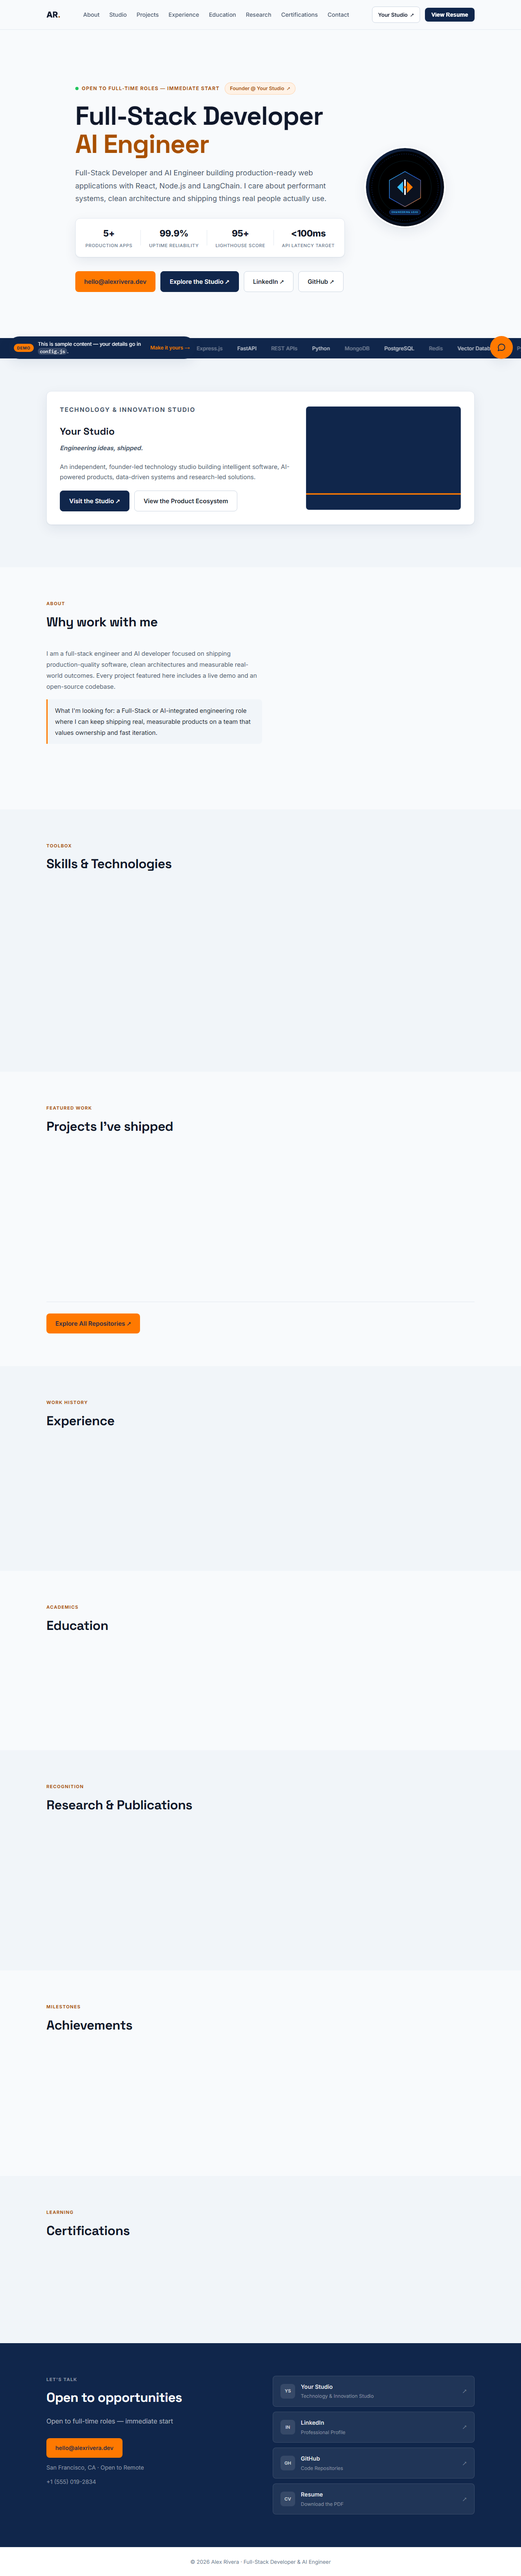
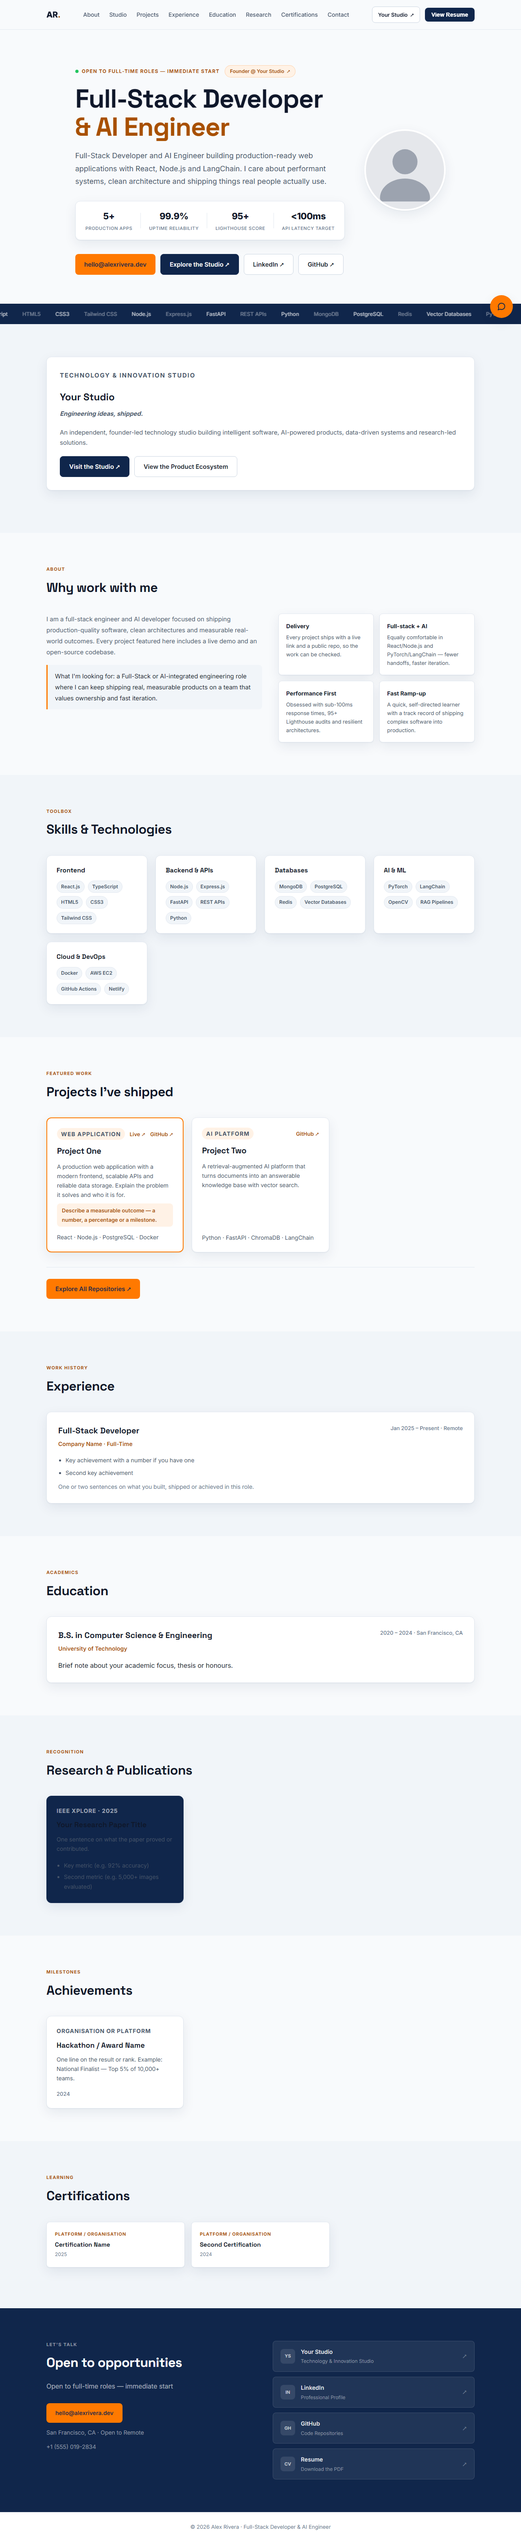
Rewrite the README around the download-and-deploy flow
Reorder the README to open with what the product is, a Diwali line, three real screenshots, a Try it link, what you get, how it works in three steps, privacy, deploy options, FAQ, contributing, licence and honest limits. Screenshots come from the running app. Tick 5.1.

diff --git a/README.md b/README.md
@@ -1,12 +1,12 @@
 <div align="center">
 
-<img src="assets/screenshot-portfolio.png" alt="The demo portfolio at desktop width" width="100%" />
+# ABMVSC Portfolio Engine
 
-<br/>
+**Free portfolio website generator. Fill in your details, download your site, go live. No code, no account.**
 
-# Portfolio Engine
+Released for Diwali 2026. Free to use, no account, nothing uploaded.
 
-**A free portfolio and company website generated in your browser from one config file — no build step, no account, no dependencies.**
+A product of ABMVSC Technology & Innovation Studio.
 
 [![License](https://img.shields.io/badge/License-MIT-10264B?style=for-the-badge)](LICENSE)
 [![No Build Step](https://img.shields.io/badge/Build%20Step-none-FF7900?style=for-the-badge)](.)
@@ -21,7 +21,25 @@
 
 ---
 
+## Screenshots
+
+The generator, filling in six chapters of questions:
+
+<img src="assets/screenshot-generator.png" alt="The generator, filling in the first chapter" width="100%" />
+
+The finished personal portfolio:
+
+<img src="assets/screenshot-portfolio.png" alt="A finished portfolio page" width="100%" />
+
+The finished studio or company page:
+
+<img src="assets/screenshot-studio.png" alt="A finished studio page" width="100%" />
+
+---
+
 ## Try it
+
+**[Open the generator](/setup.html)** — or run this copy yourself:
 
 ```bash
 git clone https://github.com/Balama2520/abmvsc-portfolio-template.git
@@ -29,7 +47,7 @@ cd abmvsc-portfolio-template
 npx serve .
 ```
 
-Open <http://localhost:3000/setup.html>. Answer what you can, skip the rest, then click **Download website (ZIP)**. Unzip the folder and put it online.
+Then open <http://localhost:3000/setup.html>. Answer what you can, skip the rest, and click **Download website (ZIP)**. Unzip the folder and put it online.
 
 The live preview inside the generator reads `index.html` and `studio.html`, so it needs a local server. The form, the download, the import and the copy button all work from a plain `file://` open too.
 
@@ -38,20 +56,18 @@ The live preview inside the generator reads `index.html` and `studio.html`, so i
 ## What you get
 
 - **Two pages from one file** — a personal portfolio (`index.html`) and an optional studio or company page (`studio.html`). Text, lists, images, links, colours, fonts and SEO tags all come from `config.js`.
-- **A generator that writes that file for you** (`setup.html`) — six chapters of questions, a live preview of both pages, a completeness meter and a local draft that never leaves your browser.
+- **A generator that writes that file for you** (`setup.html`) — six chapters of questions, a live preview of both pages, a readiness checklist and a local draft that never leaves your browser.
 - **A ZIP of the finished site** — pages, styles, script, your photo, your resume and the generated config. Every link inside it resolves within the folder, so an unzipped copy works offline.
-- **SEO written at runtime** — title, meta description, canonical URL, Open Graph, Twitter Card and JSON-LD structured data injected into `<head>` from your config.
+- **SEO written into the page** — title, meta description, canonical URL, Open Graph, Twitter Card and JSON-LD structured data are baked into the HTML at download time, then refreshed from your details.
 - **Three themes and one accent colour** — light, dark and minimal, applied as CSS custom properties. Pick a colour in the generator and the readable shades are derived for you.
 
 ---
 
 ## How it works in 3 steps
 
-**1. Answer the generator.** Open `setup.html` and work through the chapters — You, Your work, Extras, Your company, Look & feel, Launch. Every field is optional; leave a field blank and its element disappears from the site, leave an array empty and its whole section disappears.
+**1. Answer the generator.** Open `setup.html` and work through the chapters — You, Your work, Extras, Your company, Look & feel, Launch. Every field is optional; leave a field blank and its element disappears from the site, leave a list empty and its whole section disappears.
 
 **2. Download the ZIP.** The generator writes a `config.js` and packs it with the pages, styles, script, your uploaded photo and your uploaded resume.
-
-<img src="assets/screenshot-generator.png" alt="The config generator at desktop width" width="100%" />
 
 **3. Put the folder online.** Unzip it and upload the folder to any static host. Nothing to install, nothing to compile.
 
@@ -59,6 +75,14 @@ The live preview inside the generator reads `index.html` and `studio.html`, so i
 unzip your-site.zip
 # drag the unzipped folder onto app.netlify.com/drop
 ```
+
+---
+
+## Privacy and network requests
+
+Nothing is uploaded. There is no server, no account, no analytics and no third-party JavaScript. The generator runs entirely in your browser and saves your draft to your own `localStorage`; the ZIP is built in the page with a small ZIP writer that ships in the repository. Your photo and resume are read into the tab with `FileReader` and written straight into the ZIP.
+
+When you load a page from this project, the only requests are for files in the same folder: the page, the stylesheet, the scripts and the fonts. Fonts are served from this repository, not a font service. The test suite fails if any request leaves the origin. See [docs/PRIVACY.md](docs/PRIVACY.md) for the full note.
 
 ---
 
@@ -82,7 +106,7 @@ Netlify reads `netlify.toml`, Cloudflare Pages reads `_headers`; both are includ
 
 ### Where does my data go?
 
-Nowhere. There is no server, no account, no analytics and no third-party JavaScript. The generator runs entirely in your browser and saves your draft to your own `localStorage`; the ZIP is built in the page with a small ZIP writer bundled in the repository. Your photo and resume are read into the tab with `FileReader` and written into the ZIP. Nothing is uploaded.
+Nowhere. There is no server, no account, no analytics and no third-party JavaScript. Your draft stays in your browser's `localStorage` and the ZIP is built in the page. Nothing is uploaded. The full note is in [docs/PRIVACY.md](docs/PRIVACY.md).
 
 ### Can I use my own domain?
 
@@ -92,17 +116,13 @@ Yes. Point the domain at your host, then set `seo.siteUrl` in `config.js` to tha
 
 Edit `config.js` and re-upload that one file. If you deployed with Netlify Drop you can drag the whole folder in again, or connect the site to a Git repository and let a push update it. `config.js` is deliberately never cached, so the change appears on the next page load.
 
+### Why does GitHub Pages show an old version?
+
+GitHub Pages ignores `_headers`, so the cache rule for `config.js` does not apply there. GitHub's own cache can hold a file for a few minutes after you push. Force a refresh, or open the page in a private window, and the new version appears. If it matters, deploy on Netlify or Cloudflare Pages, where the no-cache rule is honoured.
+
 ### Is the chat bubble a real AI?
 
 No, and it does not pretend to be. It is a keyword matcher that answers from the content already on your page — no language model, no API key, no network call. It is labelled that way in the interface. If a question matches nothing, it says so.
-
-### What are the limits?
-
-- It is a static site. There is no contact form backend, no comments and no server-side code; the contact buttons open the visitor's mail client.
-- The resume preview embeds your PDF in the browser's built-in viewer. If a visitor's browser cannot display PDFs, the download link still works.
-- One accent colour, not a full palette editor. The readable hover, text and tint shades are derived from the colour you pick.
-- The generator's live preview needs a local server; the rest of the generator does not.
-- The demo content in the shipped `config.js` is placeholder text, not a real person's details. Replace it before deploying.
 
 ---
 
@@ -114,44 +134,11 @@ Running the tests:
 
 ```bash
 npm install                        # dev tooling only — the template itself ships nothing
-npx playwright install chromium    # needed by the two browser tests
+npx playwright install chromium    # needed by the browser tests
 npm test
 ```
 
-30 tests, no network access required:
-
-```
-guardrail: the template has no runtime dependencies
-guardrail: the template has no build step
-guardrail: every JavaScript file parses
-guardrail: the pages load no third-party JavaScript
-guardrail: every file referenced by the HTML exists
-guardrail: the generator stays out of search results
-guardrail: the licence is MIT and attributed
-config.js defines all 15 documented sections
-browsing pages are content-free (content lives in config.js)
-setup.html is excluded from search engines
-the generator renders every section
-the generator offers the ZIP download and the follow-up steps
-the generator round-trips config.js with zero data loss
-array-shaped sections keep their shape through the generator
-index.html hydrates from config.js
-studio.html hydrates from config.js
-both pages inject SEO tags from config, not from HTML
-every data-list in the HTML is registered in the engine
-pack: every href and src in the pages resolves to a real file
-pack: the manifest picks up the icons, manifest and social image
-pack: an archive round-trips through the reader
-pack: a generated archive contains every file its pages ask for
-pack: crc32 matches the reference value for a known string
-pack: only stored entries are read back
-pack: upload validation rejects the wrong type and size
-pack: uploaded files get predictable paths and the config follows them
-browser: the generator ships a ZIP that opens as a working site
-layout: nothing overflows at 375px
-layout: nothing overflows at 768px
-layout: nothing overflows at 1280px
-```
+63 tests, no network access required. They cover the generator round-trip, the hydration engine, SEO injection, the ZIP writer, the URL allowlist, a malicious-input pass, a real Chromium run of the whole download-and-open path, and responsive layout at 375px, 768px and 1280px.
 
 The guardrails are the point. They fail the build if anyone adds a runtime dependency, adds a build step, pulls in third-party JavaScript or points a tag at a file that does not exist — so the promises in the badges above are enforced, not just advertised.
 
@@ -164,3 +151,14 @@ The guardrails are the point. They fail the build if anyone adds a runtime depen
 Released under the **MIT Licence**. Free to use, modify and distribute for personal and commercial projects. Attribution is appreciated but not required.
 
 See [LICENSE](LICENSE) for the full terms.
+
+---
+
+## Limits
+
+- It is a static site. There is no contact form backend, no comments and no server-side code; the contact buttons open the visitor's mail client.
+- The resume preview embeds your PDF in the browser's built-in viewer. If a visitor's browser cannot display PDFs, the download link still works.
+- One accent colour, not a full palette editor. The readable hover, text and tint shades are derived from the colour you pick.
+- The generator's live preview needs a local server; the rest of the generator does not.
+- English only. The layout is left-to-right and is not translated.
+- The demo content in the shipped `config.js` is placeholder text, not a real person's details. Replace it before deploying.

diff --git a/ROADMAP.md b/ROADMAP.md
@@ -57,7 +57,7 @@ Note: the studio email also appeared in SETUP.md, so it was replaced there too
 for consistency. package.json homepage was set to a neutral placeholder; the
 repository and bugs URLs stay pointed at the real repo so the links keep working.
 
-- [ ] 5.1 Reorder and update README with live screenshots.
+- [x] 5.1 Reorder and update README with live screenshots.
 - [x] 5.2 Remove personal policy emails and inspect GitHub templates.
 - [x] 5.3 Remove orphan assets, unused CSS, and scratch files.
 - [ ] 5.4 Run spelling and banned-word checks.
